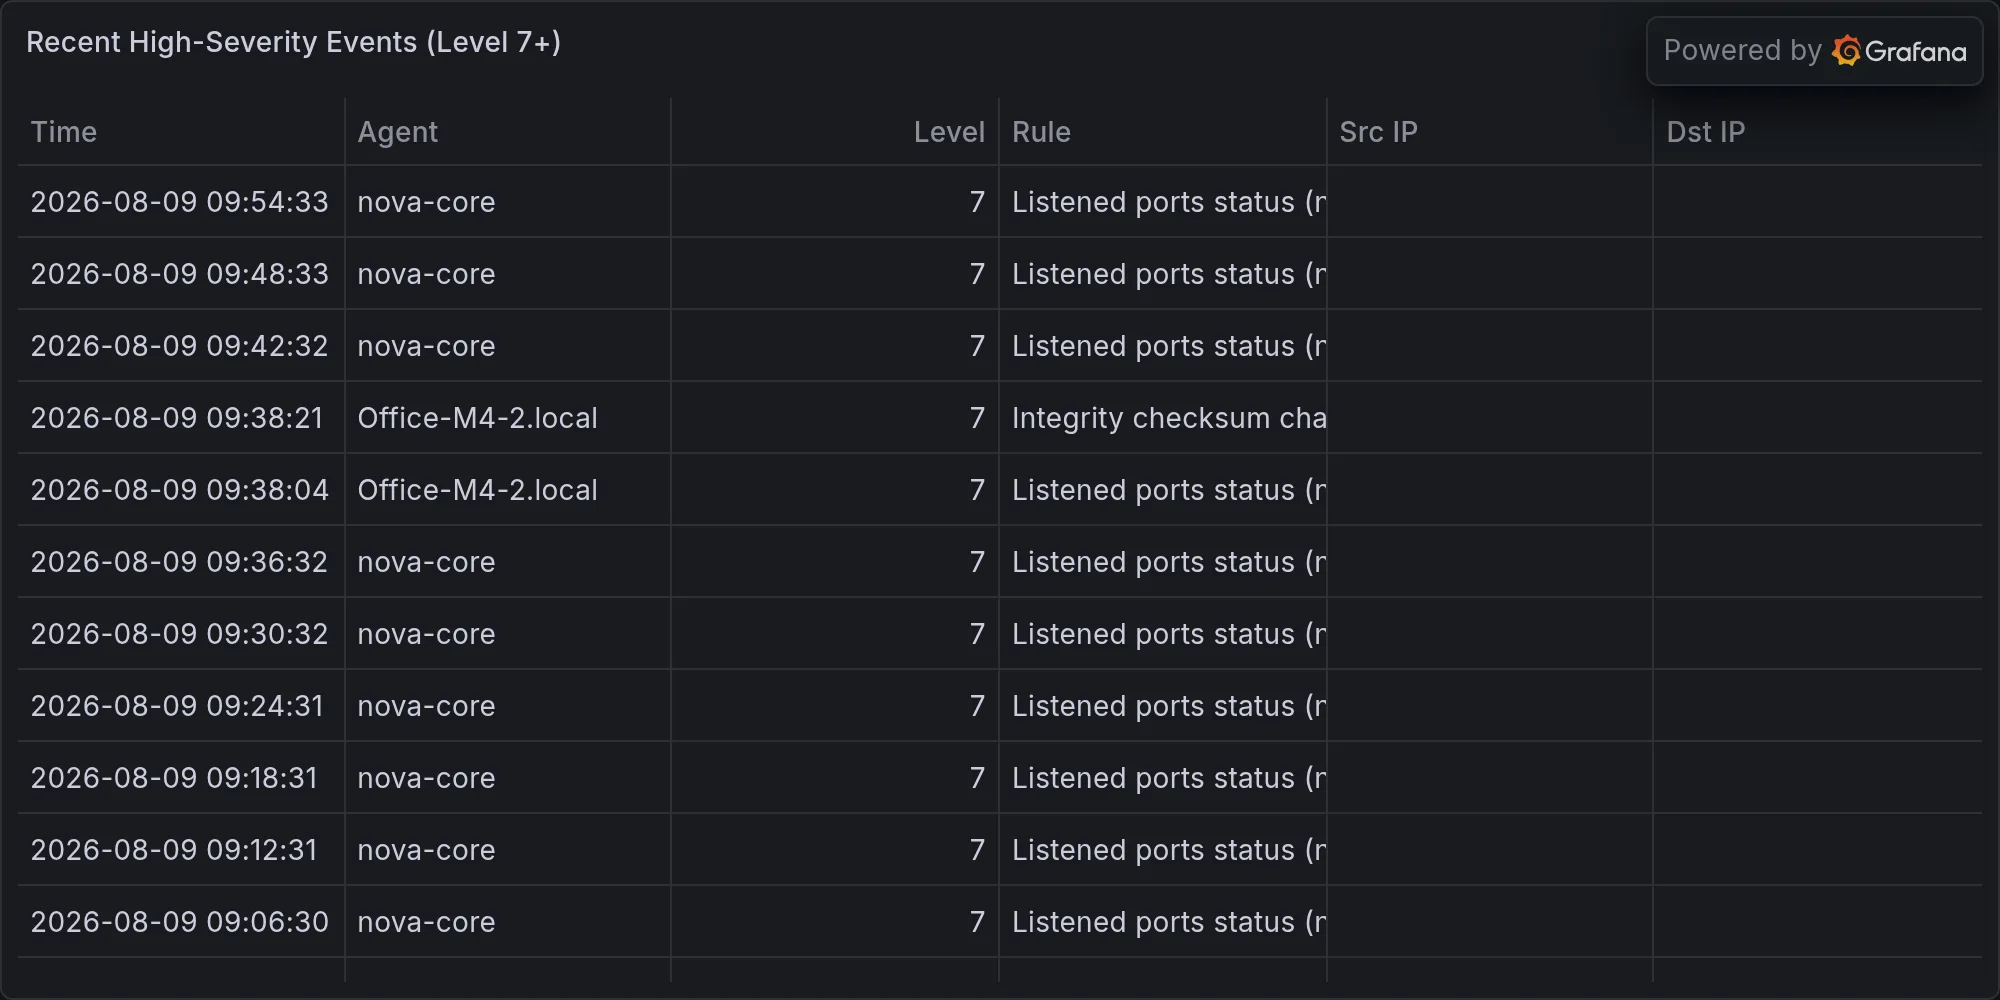
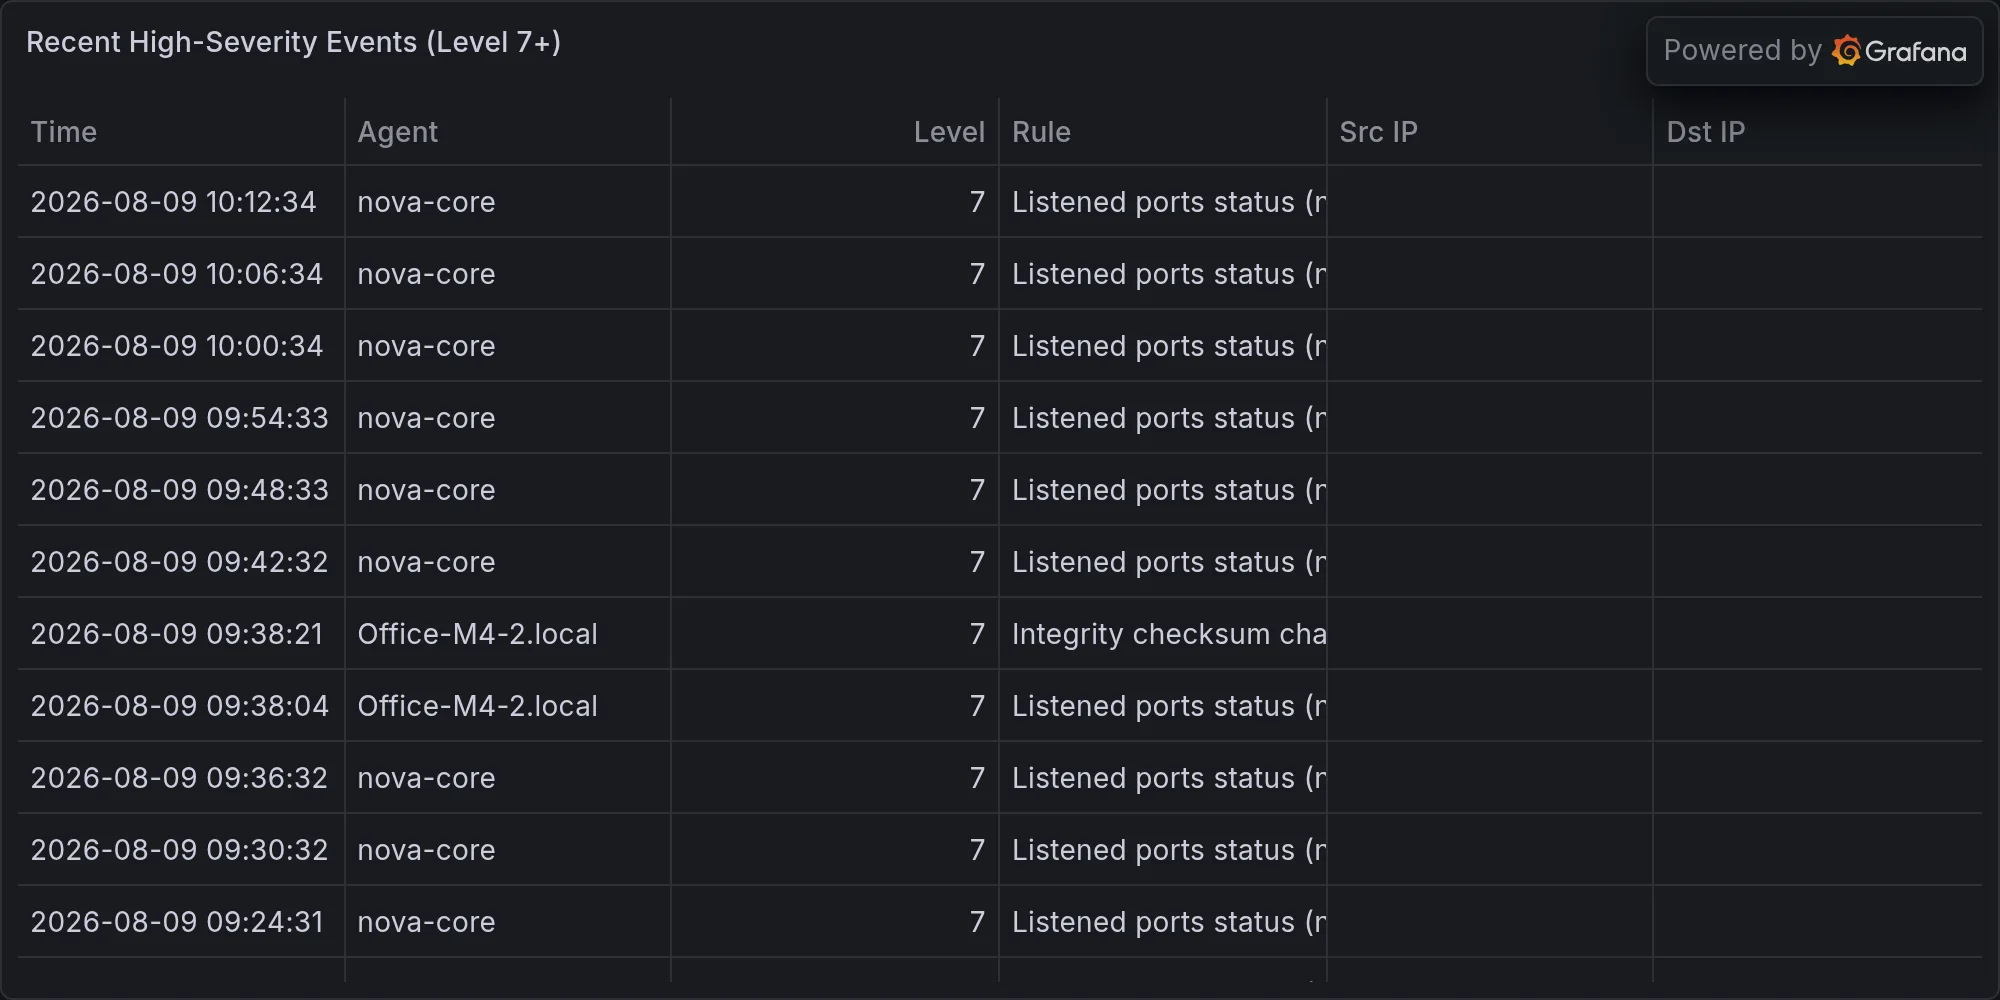
security: 2026-08-09 — **DEVELOPING — Windows 0-Day PoC Published: CVE-20

diff --git a/content/operations/2026-08-09-developing-windows-0-day-poc-published-cve-2026-33825-cve-20.md b/content/operations/2026-08-09-developing-windows-0-day-poc-published-cve-2026-33825-cve-20.md
@@ -1,0 +1,74 @@
+---
+title: "🛡 **DEVELOPING — Windows 0-Day PoC Published: CVE-2026-33825, CVE-2026-41091 (CVSS 7.8)**"
+date: 2026-08-09T10:17:31-07:00
+draft: false
+categories: ["operations"]
+tags: ["breaking-alert", "sploitus-nightmare-windows-0-day-exp-exp", "security"]
+description: "BREAKING: sploitus: Nightmare-Windows-0-day-exp exploit"
+cover:
+  image: "/images/operations/2026-08-09-developing-windows-0-day-poc-published-cve-2026-33825-cve-20.webp"
+  alt: "**DEVELOPING — Windows 0-Day PoC Published: CVE-2026-33825, CVE-2026-41091 (CVSS 7.8)**"
+  relative: false
+---
+
+*Published Sunday, August 09, 2026 at 10:17 AM PT*
+
+![**DEVELOPING — Windows 0-Day PoC Published: CVE-2026-33825, CVE-2026-41091 (CVSS 7.8)**](/images/operations/2026-08-09-developing-windows-0-day-poc-published-cve-2026-33825-cve-20.webp)
+
+**BLUF:** Proof-of-concept exploit published for two Windows vulnerabilities (CVE-2026-33825, CVE-2026-41091; CVSS 7.8). PoC exists; vulnerability scope and affected Windows versions NOT confirmed in available sources. Windows administrators should assume increased attack surface and monitor patch status immediately.
+
+---
+
+**DETAILS**
+
+- **Exploit:** "Nightmare-Windows-0-day-exp" PoC published via sploitus; targets two distinct CVEs with shared CVSS score 7.8
+- **CVE IDs:** CVE-2026-33825 and CVE-2026-41091 (both Windows-related; specific vulnerability type not documented in available sources)
+- **CVSS Rating:** 7.8 (high severity; below critical threshold but elevated privilege/impact likely)
+- **PoC Status:** Public proof-of-concept available; weaponization probability HIGH given public disclosure
+- **Source Attribution:** sploitus (exploit aggregator); no official Microsoft advisory detail cross-referenced
+
+---
+
+**IMPACT**
+
+- **Scope:** Unknown. CVE identifiers suggest distinct flaws, but shared CVSS implies comparable blast radius
+- **Affected:** Windows systems matching CVE-2026-33825 and CVE-2026-41091 criteria — version/build details NOT provided in available material
+- **Risk Window:** Immediate. Public PoC + CVSS 7.8 → expect exploitation attempts within hours to days
+- **Affected Organizations:** All Windows infrastructure absent vendor patching
+
+---
+
+**RECOMMENDED ACTIONS**
+
+1. **Immediate:** Check Microsoft Security Advisories and CISA alerts for CVE-2026-33825 and CVE-2026-41091 patch/mitigation details (not available in current data)
+2. **Inventory:** Identify all Windows systems in scope and current patch levels
+3. **Monitor:** Watch for exploitation attempts (lateral movement, privilege escalation post-intrusion) — attack pattern will clarify once PoC is analyzed
+4. **Patch:** Apply Microsoft patches immediately upon release; do not deploy until advisory clarifies affected builds
+5. **Contain:** If exploited before patching, assume potential for privilege escalation or remote code execution (inferred from CVSS 7.8)
+
+---
+
+**UNCERTAINTY FLAGGED**
+
+The following details are **NOT confirmed** in available sources and must be obtained from official Microsoft/CISA:
+- Specific vulnerability type (RCE, privilege escalation, bypass, etc.)
+- Affected Windows versions and builds
+- Mitigation steps if patches unavailable
+- Whether exploits in the wild confirm public PoC works reliably
+
+This alert will be updated upon receipt of official CVE details.
+
+---
+
+**SOURCES**
+
+- sploitus (exploit aggregator)
+- CVE-2026-33825, CVE-2026-41091 (NVD/Microsoft Security Advisories — pending review)
+
+**Status:** DEVELOPING. Awaiting Microsoft advisory detail and threat intel on active exploitation.
+
+---
+
+**Recent high-severity events at publish time:**
+
+![Recent high-severity events](/images/operations/2026-08-09-breaking-alert-posture.webp)
